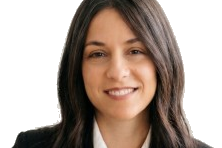
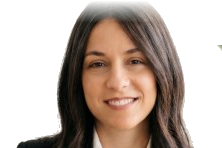
Halve the oversized head and feather the hairline so it no longer cuts flat at the top

diff --git a/index.html b/index.html
@@ -481,7 +481,7 @@
                 <rect class="torso" x="11" y="18" width="8" height="10" rx="3" fill="#FFFFFF"/>
                 <rect class="arm arm-left" x="8.8" y="19" width="2.4" height="8" rx="1.2" fill="#FFFFFF"/>
                 <rect class="arm arm-right" x="18.8" y="19" width="2.4" height="8" rx="1.2" fill="#FFFFFF"/>
-                <image class="head" href="assets/avatar-face-cutout.png" x="-63" y="-85" width="156" height="104"/>
+                <image class="head" href="assets/avatar-face-cutout.png" x="-24" y="-33" width="78" height="52"/>
               </g>
             </g>
           </svg>
